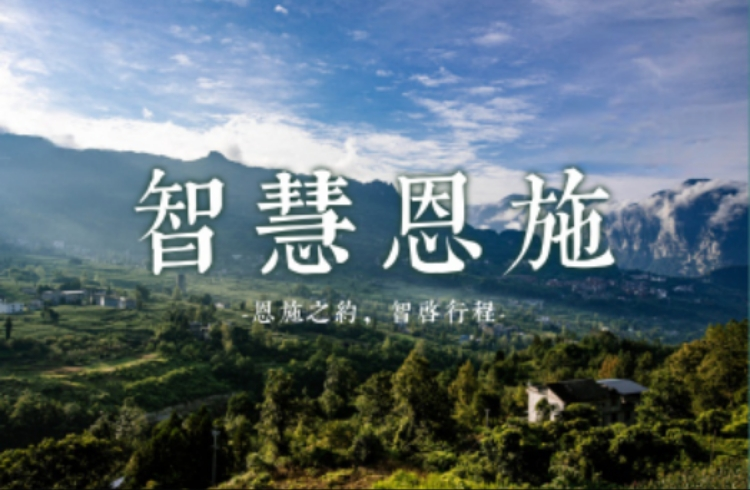
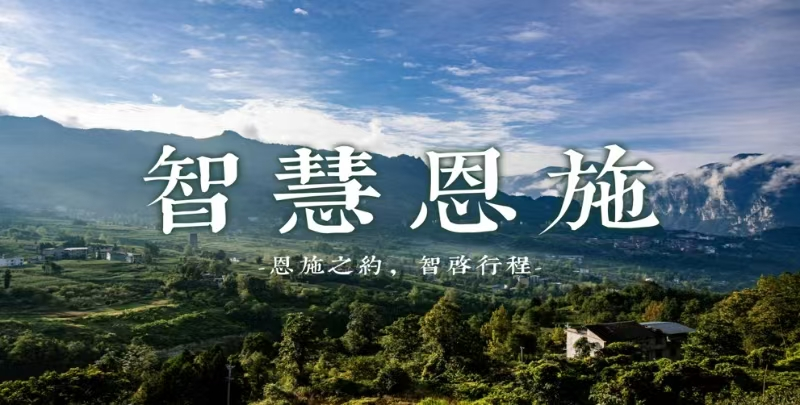
最终版

diff --git a/client/pages/index/index.js b/client/pages/index/index.js
@@ -5,7 +5,7 @@ const util = require('../../utils/util.js');
 
 Page({
     data: {
-      bannerUrls: ['/assets/横放1.png'],
+      bannerUrls: ['/assets/横放1.png', '/assets/横放2.png', '/assets/横放3.png'],
       types:[
         {
           imgUrl:'https://gw.alicdn.com/tfs/TB1lw9HfgoQMeJjy0FpXXcTxpXa-225-183.png',
